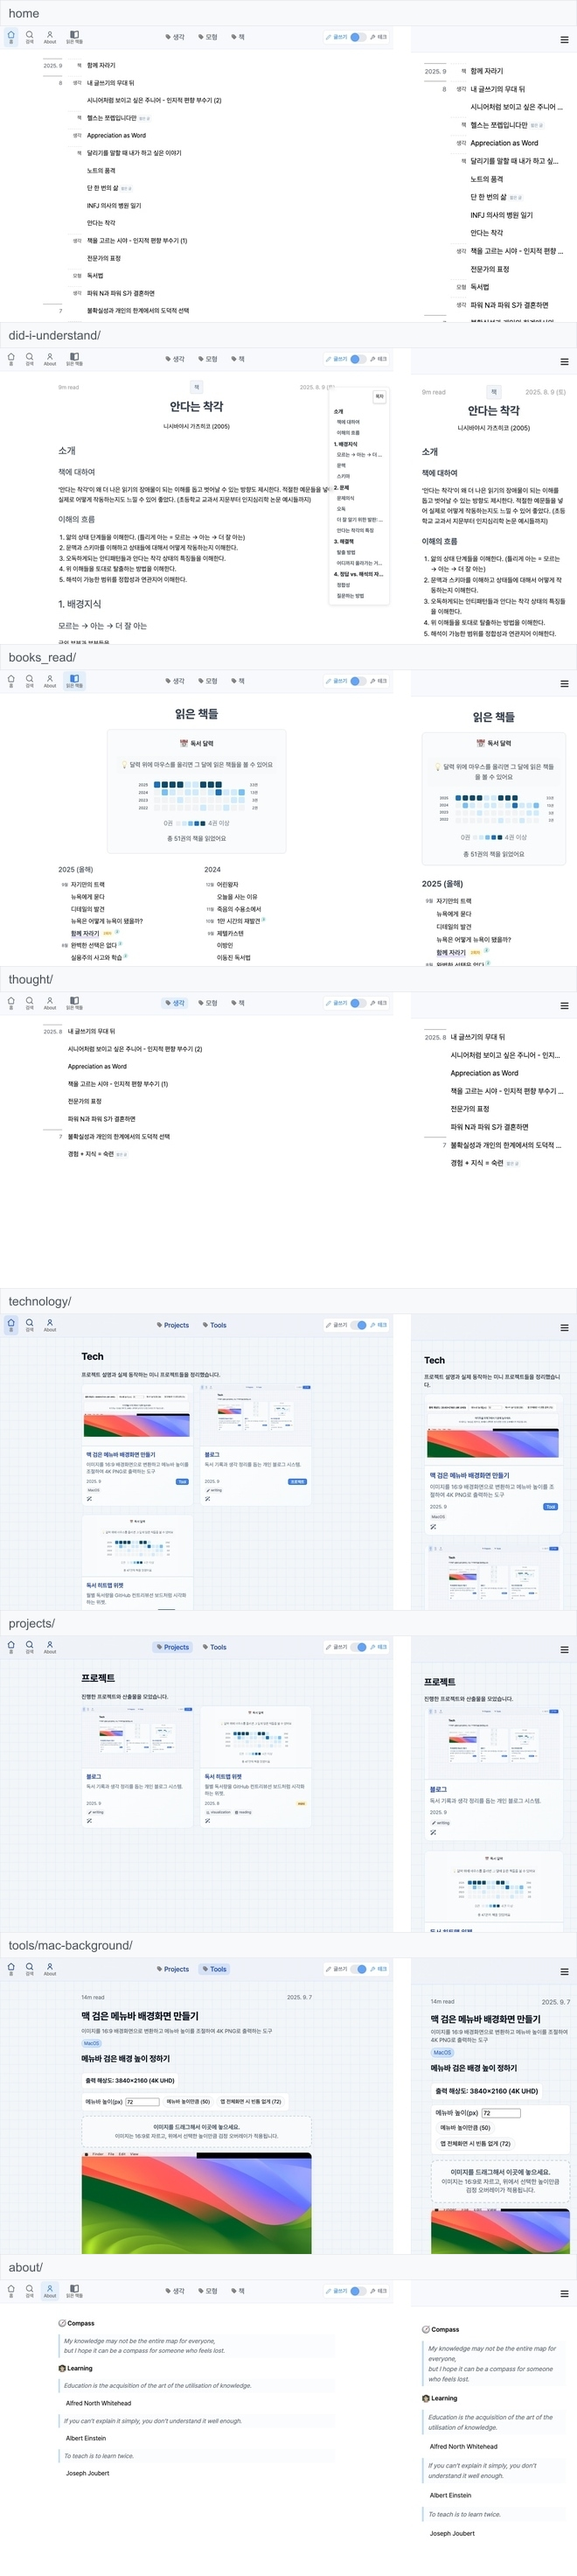
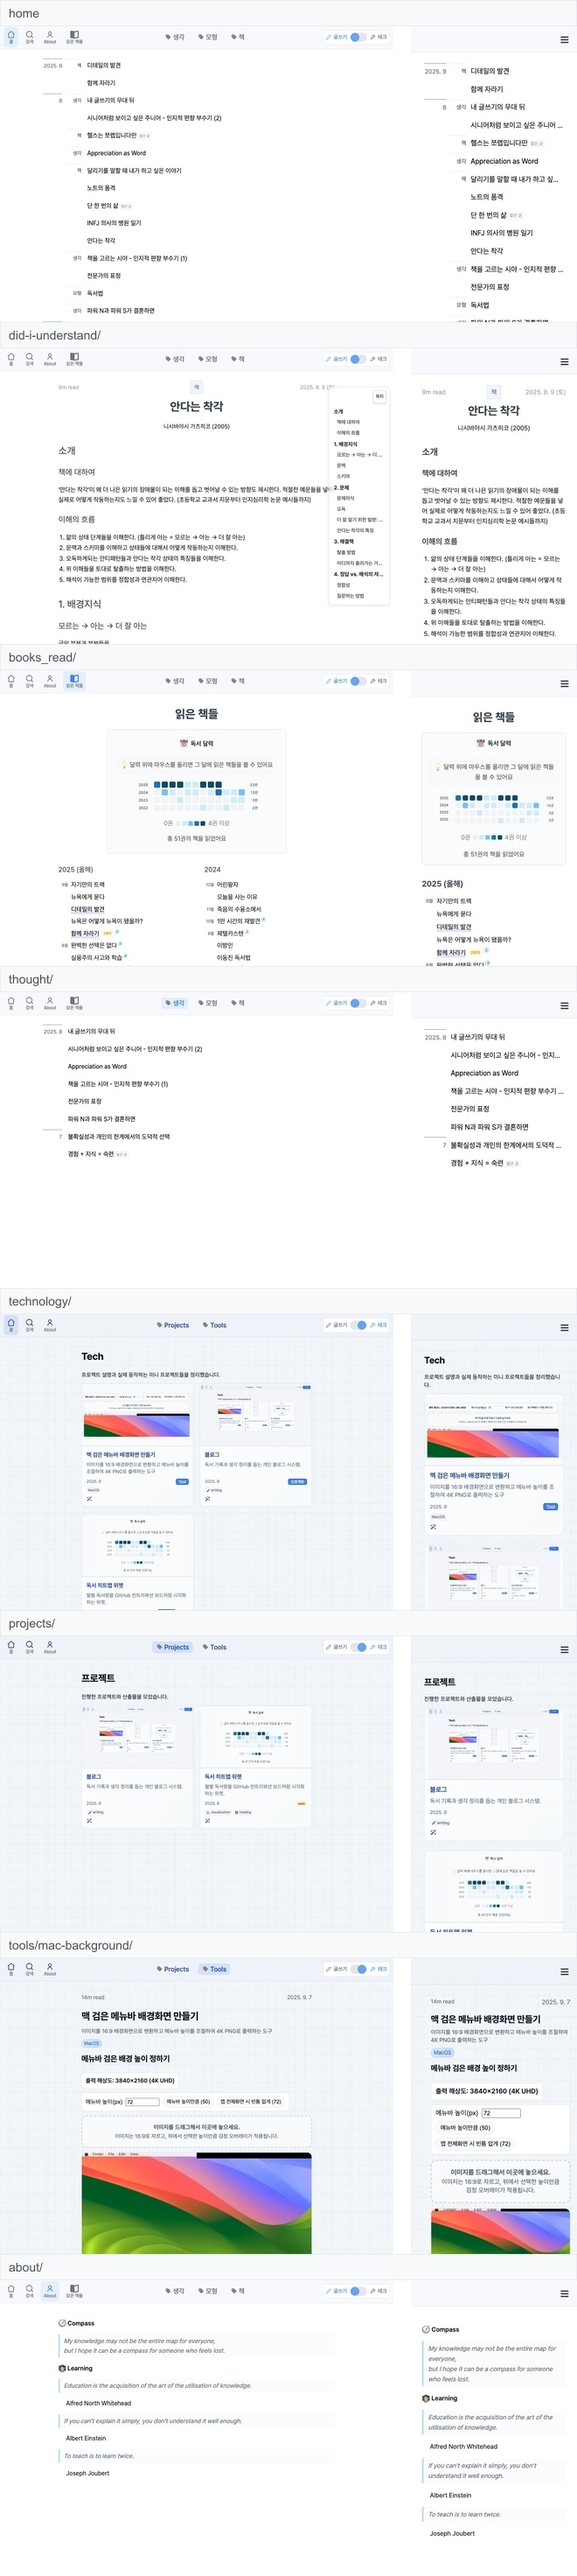
새 글: 디테일의 발견 (#77)

Changed region(s): [[0.7879, 0.0312, 0.9697, 0.125], [0.1515, 0.0312, 0.3333, 0.125]]

diff --git a/_posts/2025-09-19-discovery-of-detail.md b/_posts/2025-09-19-discovery-of-detail.md
@@ -1,0 +1,191 @@
+---
+layout: post
+title: 디테일의 발견
+date: 2025-09-19
+categories: 책
+author: 생각노트
+permalink: discovery-of-detail
+publication_year: 2023
+---
+
+# 책에 대한 생각
+
+오랜만에 초반을 읽으면서 뒷내용이 궁금해지는 책이었다. (p.38부터)
+
+- '이런 내용이 앞으로 더 있으면 좋겠다.'
+- '더 길지 않아 아쉽다.'
+- 더 나아가 나도 그런 글, 책을 써보고 싶다. 남들이 읽으면서 정말 좋아하는. Atomic Habits[^1]
+
+근데 책 표지에서 제목이 옆면에서 반으로 잘려 있어서 서점 책장에서 발견하기 힘들었다.
+
+토스 추천 100권에 있다.
+
+# 책이 남기는 여운
+
+> 닳고 닳은 길에도 언제나 뒤집어보지 않은 돌들이 있는 법이다. 그 돌들을 주목하고 뒤집어보는 수고를 한 사람에게 새로운 길이 열리는 법이지. _ 찰스 타운스(노벨 물리학상)
+
+# 책의 내용
+
+## 당연하지 않다
+
+> 하지만 그 '<emphasis><b>당연히</b></emphasis>' 때문에 누군가 불편을 겪고 시간을 빼앗겨서 사회적 비용이 발행하고 있다면, 당연한 것을 해결하기 위해 노력할 만한 가치가 충분하지 않을까요. [30]
+
+> "일부러 혁명을 일으키고자 했던 것은 아닙니다. 왜 1가지 방식으로만 해야 하고, 다른 방식은 안 되는지 알고 싶었을 뿐입니다." _ 비비언 웨스트우드 [82][^7]
+
+## 불편함
+
+> 여러분이 최근 느낀 불편은 무엇인가요. 그 불편을 다른 사람도 느끼나요. 지나치고 말았던 불편을 어떻게 해결할 수 있을지 고민해보는 건 어떨까요. 그렇다면 다른 사람으로 하여금 '<emphasis>내가 원한 게 바로 저거였어!</emphasis>'라는 반응을 끌어낼 수 있지 않을까요. [78]
+
+> 우리 주변에 불편한 것을 떠올리고 심플하고 참신한 해결책을 고민하는 것은 어떨까요. ... **불편함, 니즈, 심플함, 참신함**. 저도 이 4가지 키워드를 세상을 바라보는 필터로 써봐야겠습니다. [120]
+
+## 해결
+
+> ... 방법을 **<emphasis>진지하게 고민</emphasis>**해야 합니다. 그리고 <emphasis>분명 그런 노력을 고객이 눈치챌 것이라 확신</emphasis>합니다. [16]
+
+- <my>내가 디테일을 좋아했던 이유가 다시금 떠올랐다. 디테일에서 느껴지는 상대를 생각하는 세심함의 손길이였을까. 내가 왜 디테일을 주고 싶었는지.</my>
+
+> 불편을 '당연하게' 느끼지 않고, 이조차도 해결할 수 있다는 점을 잊지 않기로 했습니다. [97] 안다는 착각[^2]
+
+> 고객이 무엇을 불편해하는지 그 불편의 본질에 가까이 다가가는 것이 해결의 핵심 ... [215]
+
+> 생각이 필요한 고민을 정리한 뒤, 해당 기간에 집중적으로 고민해보고, 고민의 답을 얻기 위해 독서에 집장하는 시간이 생각 주간입니다. _ 빌 게이츠 [254]
+
+> "디자인은 어떻게 보이느냐의 문제가 아니라 어떻게 기능하느냐의 문제다" _ 스티브 잡스 [280][^8]
+
+## 작은 행동, 위대한 신념
+
+작은 디테일이 평생 브랜드를 정한다.
+
+> 고객의 여정에서 제일 중요한 것은 감정이고, 그 감정을 움직일 수 있는 건 사소한 '디테일'이 아닐까 다시 한번 생각해봅니다. [47]
+
+> "위대한 행동은 없다. 위대한 사랑으로 행한 작은 행동만 있다. _ 마더 테레사 수녀 [107]
+
+> ... 선한 영향력은 브랜드의 코어인 철학과 신념이 단단해야 나올 수 있다 ... [264]
+
+## 실존하는 인간
+
+### 느낌
+
+> 인간이라는 존재는 말이에요. 아무리 디지털이 널리 퍼져도 '야, 하늘이 오늘 되게 바래'라고 말하면서 즐거워하고 '와, 커피 향이 되게 좋아' 그런 걸 좋아한단 말이에요. _ 최인아, 책방은 살아있다 [38]
+
+> 사람들은 당신이 한 말을 잊고 당신이 한 행동도 잊지만, 당신이 준 느낌만큼은 결코 잊지 않는다.  _ 마야 안젤루[43][^3]
+
+- <my>이렇게 내용이 이어져서 좋다. 블로그를 하길 잘했다. 그리고 비록 나열식이더라도 책의 내용을 적어두는 것도.</my>
+
+### 기억
+
+> 심리학에는 '<emphasis>피크엔드 법칙(peak-end rule)</emphasis>'이라는 용어가 있습니다. ... 사람의 경험에 관한 기억은 가장 강렬한 순간(peak)와 마지막 순간'을 잡았습니다. _ 대니얼 카너먼(노벨 경제학상) [185]
+
+> 첫인상 못지않게 '**마지막 인상**'도 중요합니다. 모든 서비스는 고객과의 '마지막'을 준비해야 합니다. [287]
+
+### 경험
+
+> MZ세대의 특징 중 하나는 '주도성'이라고 합니다. 주도권을 가지고 직접 해보는 것을 좋아한다는 것이죠 [50][^4]
+
+오프라인 쇼핑의 최대 장점은 직접 '경험'하여 상품을 더 신뢰할 수 있다는 것이다. [69]
+
+### 추억
+
+> '명함 잘라 갈 수 있었던 그 카페!'라고 말하자 단번에 이 카페를 떠올리고 ... [37]
+
+> ... 경험이 준 느낌이 이 곳을 '**좋았던 공간**'으로 오래 기억나게 할 것입니다. [44]
+
+> **디테일의 매력은 '추억'**이기도 합니다. [99]
+
+> "우리는 경험이 선사한 '추억'을 가지고 선택합니다." _ 대니얼 카너먼(노벨 경제학상) [258]
+
+## 서비스의 디테일
+
+### 나도 좋아했던
+
+- 바나프레소 - 오늘의 운세: 좋은 대화 소재
+- 무신사 - 비슷한 사이즈 고객
+- 미분당 - 머리끈
+
+### 새로 알게되서 좋은
+
+- [야 중간에서 만나](https://ya-manna.com/): 약속 중간 장소 찾기
+    - 비슷한 서비스: [위밋플레이스](https://wemeetplace.com/)
+- [진짜서울](https://jinjja-seoul.com/): 코딩하기 좋은 카페 찾기
+- [어린이용 이용약관](https://blog.naver.com/n_privacy/221567475902) - 네이버
+
+### 관련해서 생각난
+
+- [TLDRLegal](https://www.tldrlegal.com/): 라이센스 약관 쉬운 영어로
+- [색칠 지도 - 내가 가본 우리나라](https://mykoreamap.com/maps/show): 내가 갔던 국내 지역들
+
+### 흠.. 모먼트
+
+- 순두부찌개 양념 봉투 - 물붓는 선: 냄비 크기가 다 다르지 않나?
+- 샘플 이용 후 제품 10% 할인 - 오히려 샘플 필요없어도 무조건 달라고 _ 게임이론?
+
+## 전문적 시각
+
+### 태도
+
+#고민 #관찰 #인식
+
+> 쉽게 할 수 있는 일을 어렵게 고민하는 태도가 디테일을 챙기는 기본 ... [130]
+
+- 익숙해져서 하던대로만 하던 쉬운 일을 익숙함을 벗어난 어려움으로 고민하기.
+
+> '모르는 것이 무엇인지조차 모르는 일'을 최소화하고 싶은 바람입니다. 주변을 더욱 열심히 관찰하려는 것도 이런 이유 때문입니다. [162][^9]
+
+> '지식의 저주'라는 말이 있습니다. 자신이 아는 것을 상대방도 안다고 여기는 인식의 왜곡을 말합니다. [167]
+
+### 연결
+
+#창의력
+
+> "창의력은 연결하는 능력이다." _ 스티브 잡스 [105][^3]
+
+> 이처럼 '연결'을 잘하는 것도 고객을 위한 디테일을 고민할 때 적용할 수 있는 기획법이라고 생각합니다. 연결만 잘해도 창의적일 수 있습니다. [105][^5]
+
+### 고객
+
+#고객 경험
+
+> 고객을 어머니라고 생각해보자. 고객에게 하고자 하는 일을 과연 내 어머니에게도 할 수 있을까.  _ 진 블리스, 마케터의 질문 [40]
+
+> 왜 수많은 ... 메시지 중 ...만 기억하고 있을까요. 그건 구체적인 '고객 경험'을 만들었기 때문입니다. [49]
+
+> '작은 실패를 공개하며 약점 드러내기' ... 그러면 고객과 주인은 같은 목표를 향해 걷는 '동료'로 관계가 전환된다는 것입니다. [103]
+
+> 오늘 한번 고객과의 모든 접점을 빠짐없이 나열해보시는 건 어떨까요. ... 디테일은 '접점의 영역이기도 하니까요.[^6]
+
+> 불안과 불확실성을 줄여주는 것도 고객을 위한 디테일이 될 수 있기 때문입니다. [225]
+
+### 데이터
+
+> 데이터를 단순하게 쌓아놓기만 하지 않고 ... 콘텐트로 가공하는 시도를 ... [53]
+
+> 작은 기능이 고객에게는 (제품)과 동행한다는 기분을 선물하고, (회사)에게는 고객의 (제품 사용) 기록을 살펴볼 수 있는 기회가 된 것입니다. [67][^10]
+
+### 마케팅
+
+> 최고의 마케팅은 제품이라고 생각합니다. ... 좋은 제품은 사용자가 자발적으로 주변에 소문내기 때문이죠. [141]
+
+> "... 문제는 그들이 너무 큰 대중 시장을 목표로 하고 있다는 것이다. 타깃을 세분화하고 명확히 규정한 뒤 접근해야 브랜드 마케팅이 가능하다." _ 패티 윌리엄스 교수(와튼 스쿨) [213]
+
+### 용어
+
+- 린치핀 브랜드(Linchpin Brand): 매출 기여도는 높지 않지만 주력 브랜드들을 도와주는 역할
+    - ex. 스타벅스 e프리퀀시
+- 고객 경험(Customer Experience)
+- 이스터 에그(Easter Egg)
+- 이케아 효과: 노력을 투입한 물건에 더 애정을 갖게 되는 인지적 편향
+- 트리거
+- 바이럴 루프
+- 공급자 언어, 사용자 언어
+- 구매 전 고객, 구매 후 고객
+
+[^1]: [[도서] 아주 작은 습관의 힘, 제임스 클리어, 2019](https://product.kyobobook.co.kr/detail/S000001813652)
+[^2]: [[생각] 안다는 착각, 2025]({% post_url 2025-08-09-did-i-understand %})
+[^3]: [[생각] INFJ 의사의 병원 일기, 2025]({% post_url 2025-08-10-infj-doctor %})
+[^4]: [[도서] 실용주의 사고와 학습, 앤디 헌트, 1999](https://product.kyobobook.co.kr/detail/S000001766246)
+[^5]: [[도서] 제텔카스텐, 숀케 아렌스, 2023](https://product.kyobobook.co.kr/detail/S000208468354)
+[^6]: [[도서] 린 소프트웨어 개발, 메리 포펜딕, 2007](https://product.kyobobook.co.kr/detail/S000001469789)
+[^7]: [[블로그] 일론 머스크의 생각법, 1원칙 사고](https://www.learningman.co/firstprinciple/)
+[^8]: [[위키피디아] Form follows function](https://en.wikipedia.org/wiki/Form_follows_function)
+[^9]: [[위키피디아] There are unknown unknowns](https://en.wikipedia.org/wiki/There_are_unknown_unknowns)
+[^10]: Win-win

diff --git a/_posts/2025-09-08-grow-together.md b/_posts/2025-09-08-grow-together.md
@@ -458,13 +458,13 @@ Q. 조직, 팀에서 내가 먼저 할 수 있는 일?
 - ex. 대화법, 사고법
 
 [^1]: [[도서] 실용주의 사고와 학습, 앤디 헌트, 1999](https://product.kyobobook.co.kr/detail/S000001766246)
-[^2]: [[도서] 린 소프트웨어 개발, 메리 포펜디크, 2003]() <!-- 교보링크 필요 -->
+[^2]: [[도서] 린 소프트웨어 개발, 메리 포펜딕, 2007](https://product.kyobobook.co.kr/detail/S000001469789)
 [^3]: [[도서] 1만 시간의 재발견, 안데르스 에릭슨, 2016](https://product.kyobobook.co.kr/detail/S000001892497)
-[^4]: [[생각] 잘하다 vs. 즐기다, 2025]() <!-- 내부 포스트 링크 필요 -->
-[^5]: [[생각] 습관, 2025]() <!-- 내부 포스트 링크 필요 -->
-[^6]: [[개념] 제텔카스텐, 2025]() <!-- 내부 포스트 링크 필요 -->
+[^4]: 잘하다 vs. 즐기다
+[^5]: 습관
+[^5]: [[도서] 제텔카스텐, 숀케 아렌스, 2023](https://product.kyobobook.co.kr/detail/S000208468354)
 [^7]: [[도서] 일의 감각, 로저 니본, 2021](https://product.kyobobook.co.kr/detail/S000001729572)
 [^8]: [[도서] 완벽한 선택은 없다, 안도 고다이, 2025](https://product.kyobobook.co.kr/detail/S000216497148)
 [^9]: [[도서] 피플웨어, 톰 데마르코, 1999]() <!-- 교보링크 필요 -->
-[^10]: [[유튜브] 퇴사는 이럴 때 하세요! (W/회사 10번 옮겨본 구글 수석디자이너), YouTube, 2024](https://www.youtube.com/watch?v=uqxNdpNwzsU)
-[^11]: [[위키피디아] Elevator pitch, Wikipedia](https://en.wikipedia.org/wiki/Elevator_pitch)
+[^10]: [[유튜브] 퇴사는 이럴 때 하세요! (W/회사 10번 옮겨본 구글 수석디자이너), 2024](https://www.youtube.com/watch?v=uqxNdpNwzsU)
+[^11]: [[위키피디아] Elevator pitch](https://en.wikipedia.org/wiki/Elevator_pitch)
